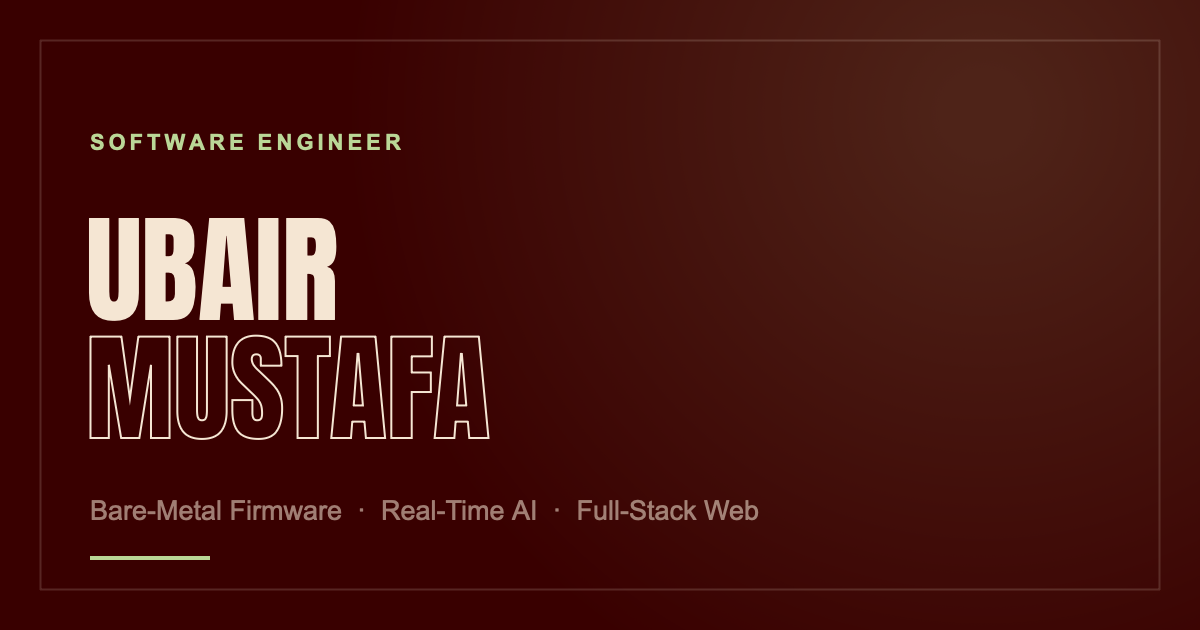
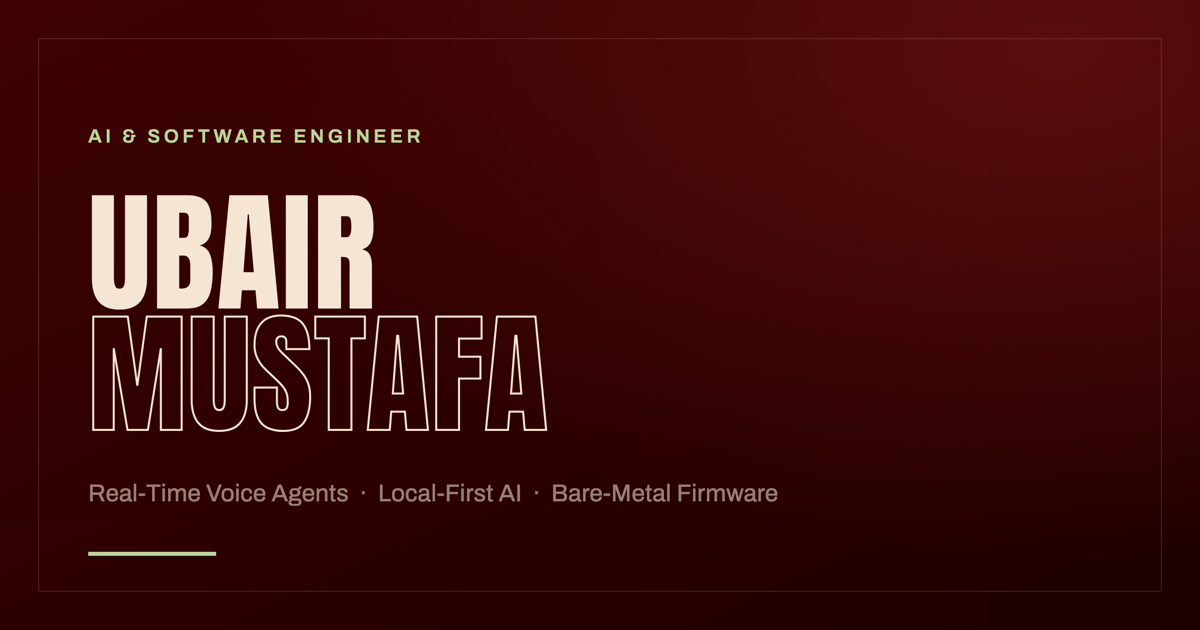
regenerate og-image for the new positioning
The share card still read "SOFTWARE ENGINEER / Bare-Metal Firmware ·
Real-Time AI · Full-Stack Web". Rebuilt it in the site's own tokens and
self-hosted Anton/Archivo so it matches the hero treatment (solid first
line, stroked second), now reading "AI & SOFTWARE ENGINEER" over
"Real-Time Voice Agents · Local-First AI · Bare-Metal Firmware".

Rendered at 2x and downsampled to the 1200x630 the meta tags declare.
og:image:alt updated to match.

diff --git a/index.html b/index.html
@@ -38,7 +38,7 @@
 <meta property="og:image" content="https://ubair.qzz.io/assets/img/og-image.png" />
 <meta property="og:image:width" content="1200" />
 <meta property="og:image:height" content="630" />
-<meta property="og:image:alt" content="Ubair Mustafa — Software Engineer" />
+<meta property="og:image:alt" content="Ubair Mustafa — AI &amp; Software Engineer" />
 
 <!-- ============================ TWITTER ================================ -->
 <meta name="twitter:card" content="summary_large_image" />
